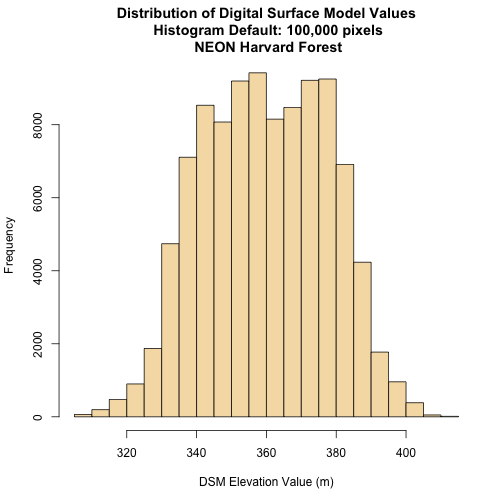
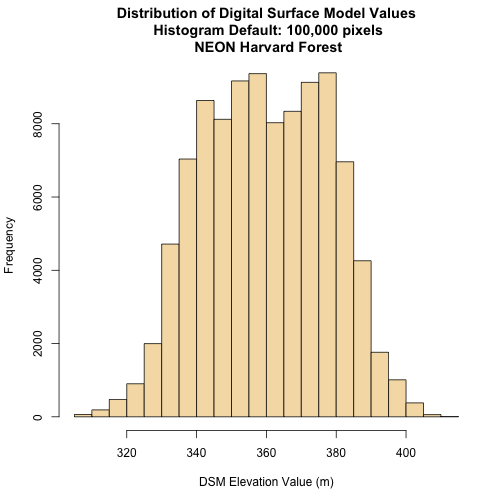
rename .Rmd w/ appropriate date intro

diff --git a/_posts/R/dc-spatial-raster/2016-01-07-SR06-Plotting-Time-Series-Rasters-in-R.md b/_posts/R/dc-spatial-raster/2016-01-07-SR06-Plotting-Time-Series-Rasters-in-R.md
@@ -79,20 +79,7 @@ please create it now.
     library(raster)
     library(rgdal)
     library(rasterVis)
-
-    ## Loading required package: lattice
-
-    ## Loading required package: latticeExtra
-
-    ## Loading required package: RColorBrewer
-
-    ## 
-    ## Attaching package: 'latticeExtra'
-
-    ## The following object is masked from 'package:ggplot2':
-    ## 
-    ##     layer
-
+    
     # Create list of NDVI file paths
     all_NDVI_HARV <- list.files("NEON-DS-Landsat-NDVI/HARV/2011/NDVI", full.names = TRUE, pattern = ".tif$")
     

diff --git a/_posts/R/dc-spatial-raster/2016-01-07-SR01-Plot-Raster.md b/_posts/R/dc-spatial-raster/2016-01-07-SR01-Plot-Raster.md
@@ -130,7 +130,7 @@ break values.
 
     DSMhist$counts
 
-    ## [1] 31735 67793   472
+    ## [1] 32026 67528   446
 
 Warning message!? Remember, the default for the histogram is to include only a
 subset of 100,000 values. We could force it to show all the pixel values or we
